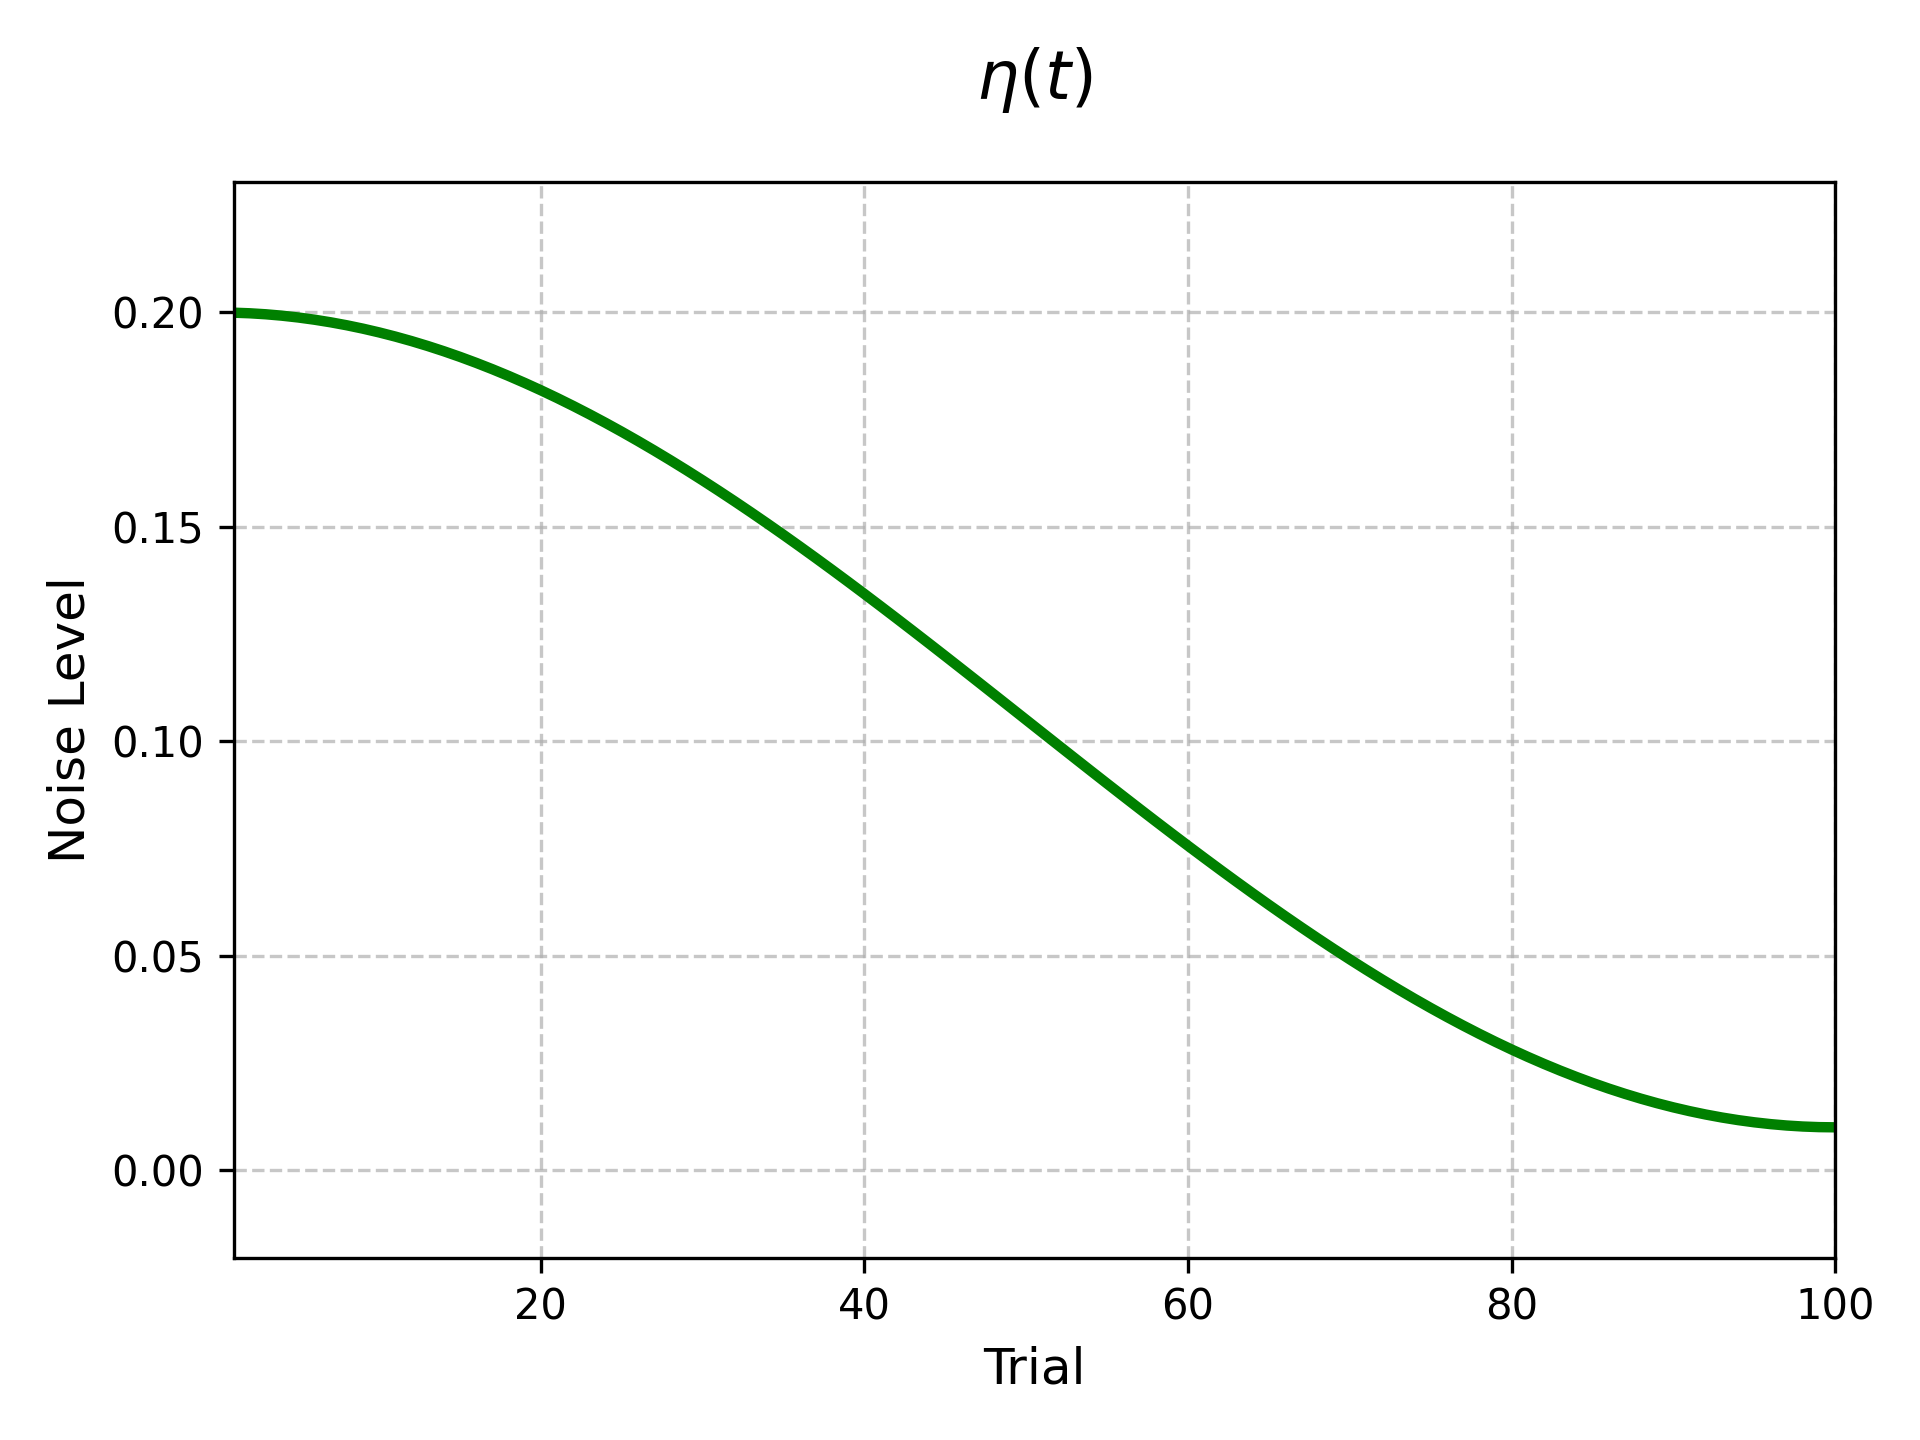
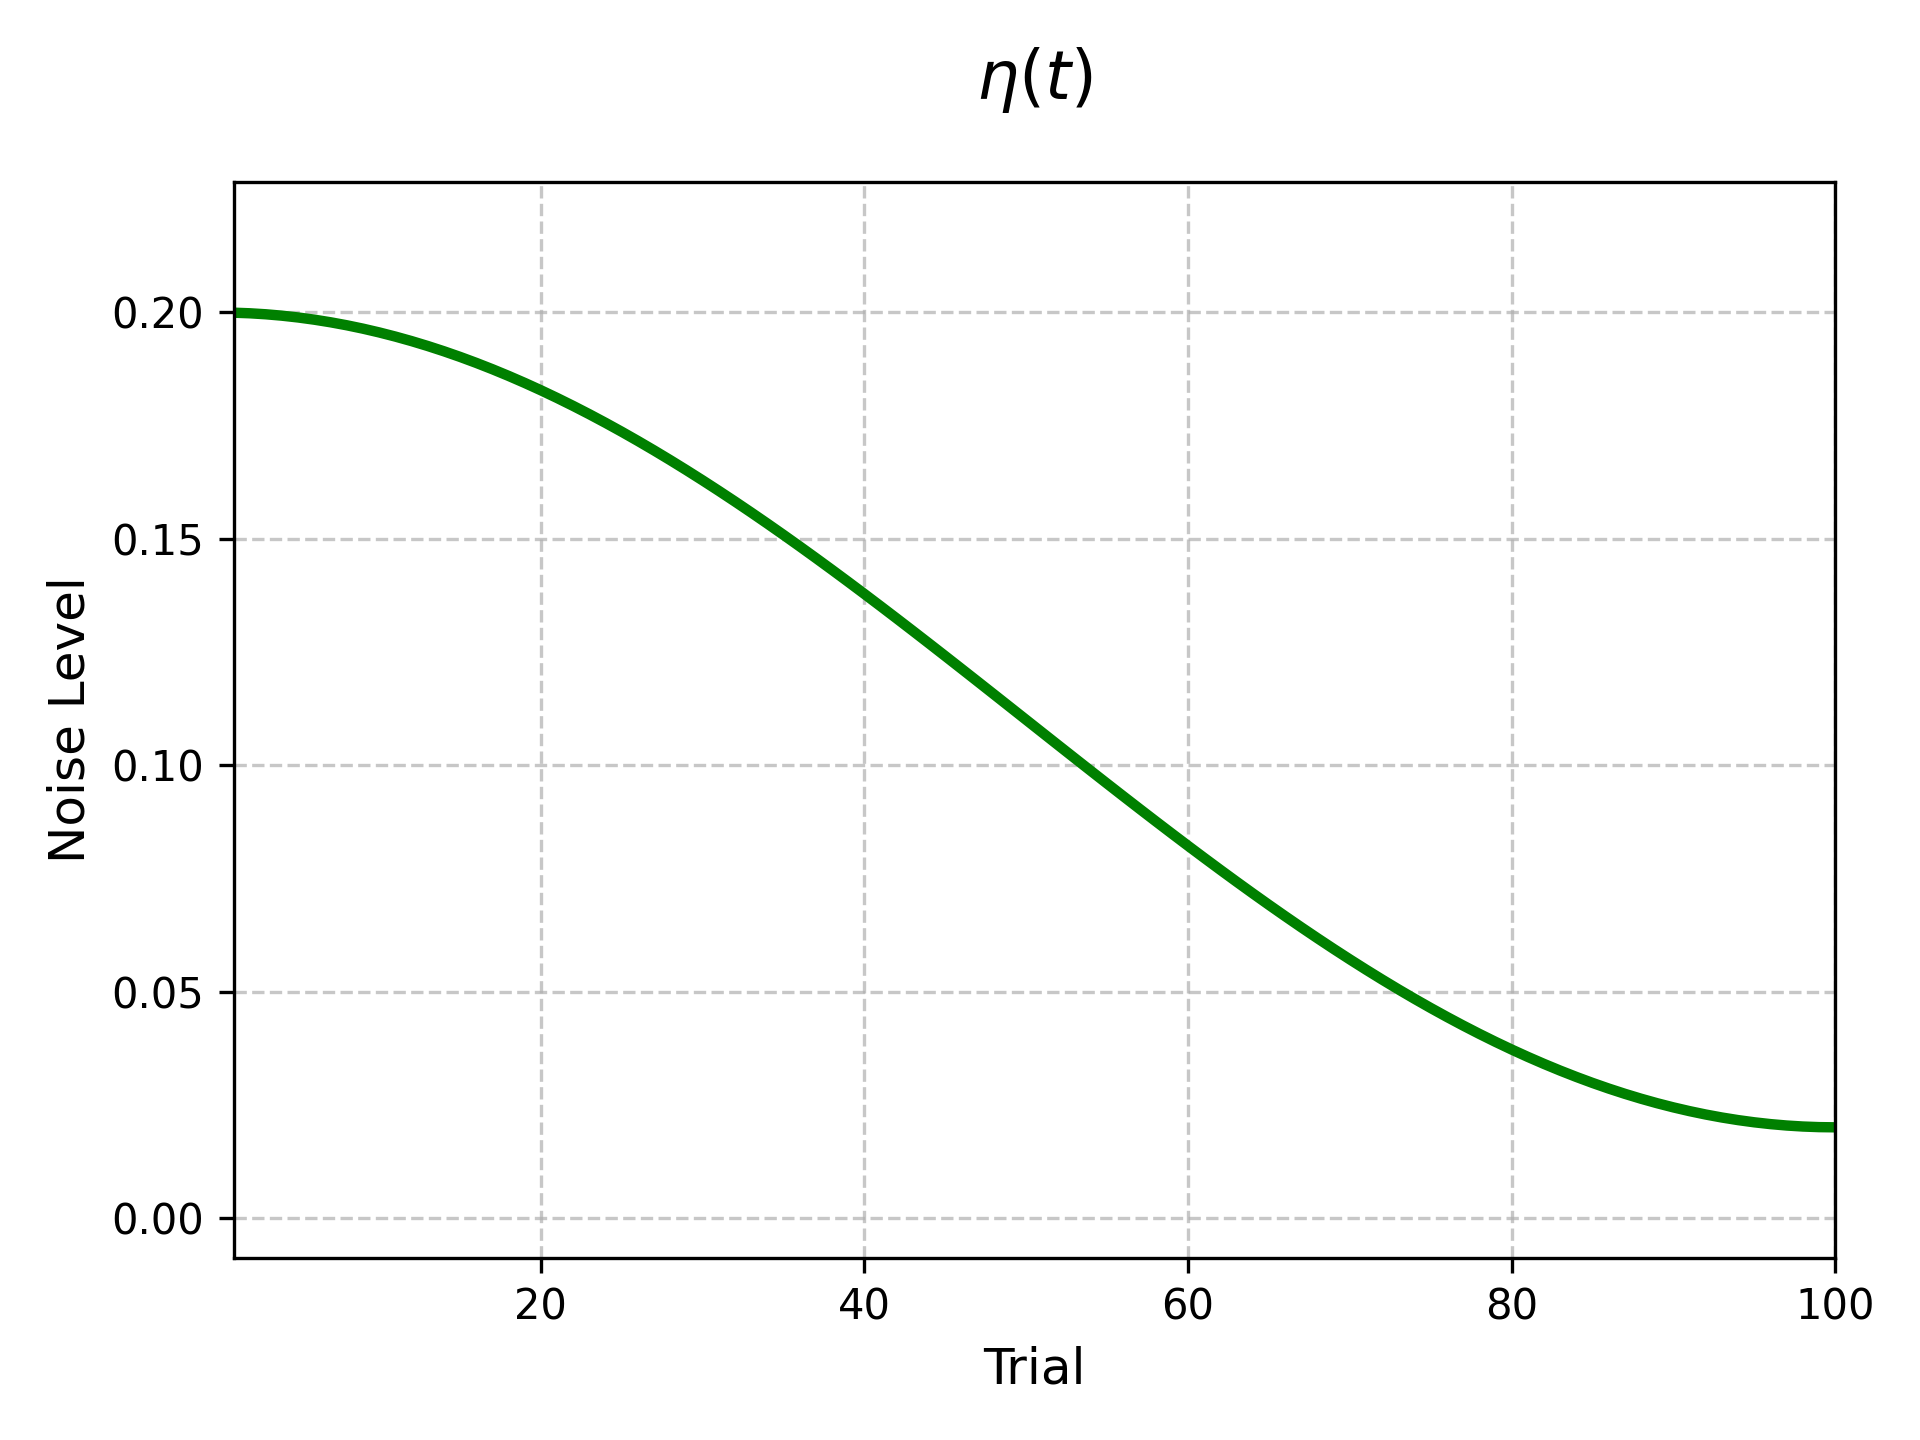
n init update

diff --git a/docs/source/_static/algorithm/figure.py b/docs/source/_static/algorithm/figure.py
@@ -5,7 +5,7 @@ import os
 # Function to calculate adaptive parameters
 def calculate_adaptive_params(n_trials, initial_noise=0.2, final_noise=None):
     if final_noise is None:
-        final_noise = 1.0 / n_trials
+        final_noise = 2.0 / n_trials
 
     n_elites = np.zeros(n_trials)
     noise_levels = np.zeros(n_trials)
